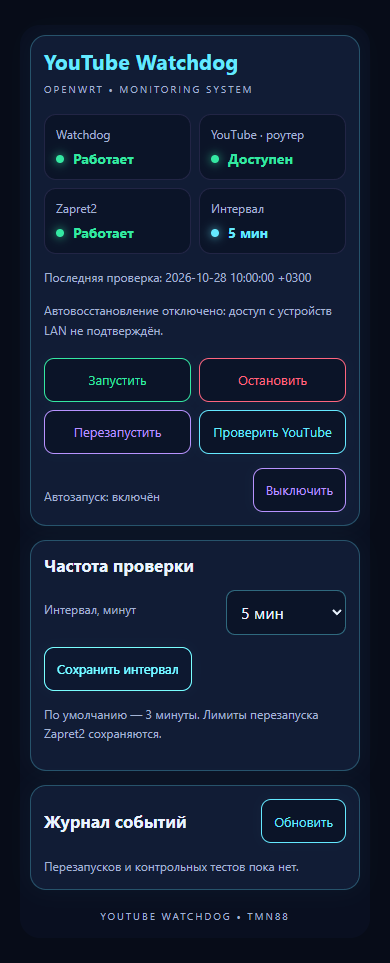
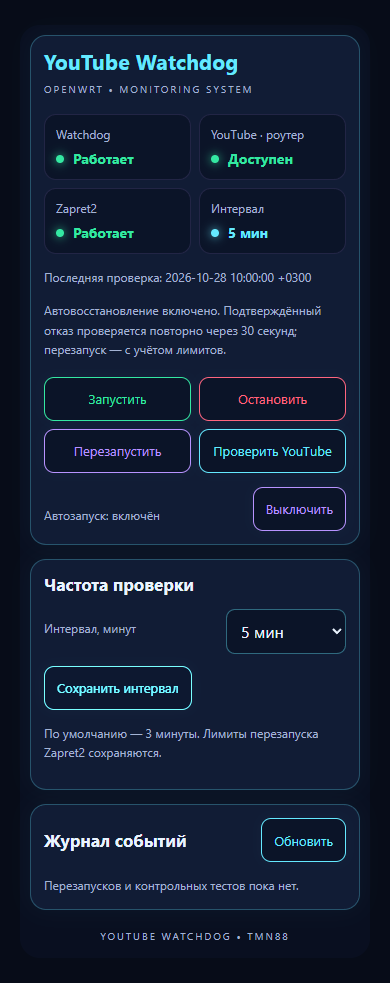
Enable router-local recovery using Site_Checker range/UA/low-speed probe and 30s confirmation (1.3.0)

diff --git a/preview.html b/preview.html
@@ -1,6 +1,6 @@
 <!doctype html><meta charset="utf-8"><meta name="viewport" content="width=device-width, initial-scale=1"><title>YouTube Watchdog — демонстрационные данные</title><body style="background:#070c18;margin:0;padding:20px"><script>
 window.writeAllowed=true;window.calls=[];window.polls=[];window.failInterval=false;
-var state={running:true,enabled:true,zapret_running:true,youtube:'HEALTHY',youtube_scope:'router',client_youtube:'UNKNOWN',local_probe:'HEALTHY',reason:'router_local_only',interval:180,checked_at:'2026-10-28 10:00:00 +0300'};
+var state={running:true,enabled:true,zapret_running:true,youtube:'HEALTHY',youtube_scope:'router',client_youtube:'UNKNOWN',local_probe:'HEALTHY',recovery_enabled:true,reason:'router_https_reachable',interval:180,checked_at:'2026-10-28 10:00:00 +0300'};
 var entries={events:[]};
 var E=function(tag,attrs,children){var e=document.createElement(tag);Object.keys(attrs||{}).forEach(function(k){e.setAttribute(k,attrs[k])});if(children!=null)(Array.isArray(children)?children:[children]).forEach(function(c){e.appendChild(c instanceof Node?c:document.createTextNode(String(c)))});return e};
 var L={hasViewPermission:function(){return window.writeAllowed}},ui={},poll={add:function(f){window.polls.push(f)}},view={extend:function(v){return v}},rpc={declare:function(o){return function(minutes){
@@ -110,12 +110,13 @@ return view.extend({
                 tile('Интервал', (s.interval || 180) % 60 ? String(s.interval) + ' сек' : String((s.interval || 180) / 60) + ' мин', 'cyan')
             ]));
             stateCard.appendChild(E('div', { 'class': 'youtube-watchdog-meta' }, 'Последняя проверка: ' + (s.checked_at || '—') + (s.checking ? ' • Проверка выполняется…' : '')));
-            var notice = s.reason === 'router_local_only'
-                ? 'Автовосстановление отключено: доступ с устройств LAN не подтверждён.'
-                : 'Проверяется доступность HTTPS с диагностического клиента. Воспроизведение видео не гарантируется.';
+            var notice = s.recovery_enabled
+                ? 'Автовосстановление включено. Подтверждённый отказ проверяется повторно через 30 секунд; перезапуск — с учётом лимитов.'
+                : 'Автовосстановление отключено.';
             if (s.reason === 'stale') notice = 'Данные устарели. Дождитесь новой проверки.';
             if (s.reason === 'client_not_configured' || s.reason === 'ssh_missing' || s.reason === 'invalid_client_user') notice = 'Диагностический клиент не настроен. Автоперезапуск запрещён.';
             if (s.reason === 'client_probe_unknown') notice = 'Нет достоверного ответа от диагностического клиента. Автоперезапуск запрещён.';
+            if (s.reason === 'router_probe_unknown') notice = 'Результат проверки неопределённый. Перезапуск не выполняется.';
             if (s.reason === 'client_general_network_or_dns' || s.reason === 'router_network_or_dns') notice = 'Ошибка сети или DNS. Автоперезапуск запрещён.';
             if (s.reason === 'configuration_changed' || s.reason === 'not_checked') notice = 'Ожидается достоверная проверка. Автоперезапуск пока запрещён.';
             stateCard.appendChild(E('div', { 'class': 'youtube-watchdog-meta' }, notice));
@@ -177,7 +178,7 @@ return view.extend({
                 var e;
                 try { e = JSON.parse(item.record); } catch (ignore) { return; }
                 var restart = e.type === 'restart', restored = e.status === 'restored';
-                var text = restart ? 'Перезапуск Zapret2 • подтверждён отказ YouTube • ' + (e.status === 'success' ? 'команда выполнена' : 'ошибка команды')
+                var text = restart ? 'Перезапуск Zapret2 • подтверждён отказ YouTube' + (e.reason === 'confirmed_router_failure' ? ' с роутера' : '') + ' • ' + (e.status === 'success' ? 'команда выполнена' : 'ошибка команды')
                     : restored ? 'YouTube восстановлен' : e.status === 'not_restored' ? 'YouTube не восстановлен' : 'Результат неизвестен';
                 var color = restart || e.status === 'unknown' ? 'warn' : restored ? 'ok' : 'bad';
                 events.appendChild(E('div', { 'class': 'youtube-watchdog-event' }, [

diff --git a/files/overview.js b/files/overview.js
@@ -95,12 +95,13 @@ return view.extend({
                 tile('Интервал', (s.interval || 180) % 60 ? String(s.interval) + ' сек' : String((s.interval || 180) / 60) + ' мин', 'cyan')
             ]));
             stateCard.appendChild(E('div', { 'class': 'youtube-watchdog-meta' }, 'Последняя проверка: ' + (s.checked_at || '—') + (s.checking ? ' • Проверка выполняется…' : '')));
-            var notice = s.reason === 'router_local_only'
-                ? 'Автовосстановление отключено: доступ с устройств LAN не подтверждён.'
-                : 'Проверяется доступность HTTPS с диагностического клиента. Воспроизведение видео не гарантируется.';
+            var notice = s.recovery_enabled
+                ? 'Автовосстановление включено. Подтверждённый отказ проверяется повторно через 30 секунд; перезапуск — с учётом лимитов.'
+                : 'Автовосстановление отключено.';
             if (s.reason === 'stale') notice = 'Данные устарели. Дождитесь новой проверки.';
             if (s.reason === 'client_not_configured' || s.reason === 'ssh_missing' || s.reason === 'invalid_client_user') notice = 'Диагностический клиент не настроен. Автоперезапуск запрещён.';
             if (s.reason === 'client_probe_unknown') notice = 'Нет достоверного ответа от диагностического клиента. Автоперезапуск запрещён.';
+            if (s.reason === 'router_probe_unknown') notice = 'Результат проверки неопределённый. Перезапуск не выполняется.';
             if (s.reason === 'client_general_network_or_dns' || s.reason === 'router_network_or_dns') notice = 'Ошибка сети или DNS. Автоперезапуск запрещён.';
             if (s.reason === 'configuration_changed' || s.reason === 'not_checked') notice = 'Ожидается достоверная проверка. Автоперезапуск пока запрещён.';
             stateCard.appendChild(E('div', { 'class': 'youtube-watchdog-meta' }, notice));
@@ -162,7 +163,7 @@ return view.extend({
                 var e;
                 try { e = JSON.parse(item.record); } catch (ignore) { return; }
                 var restart = e.type === 'restart', restored = e.status === 'restored';
-                var text = restart ? 'Перезапуск Zapret2 • подтверждён отказ YouTube • ' + (e.status === 'success' ? 'команда выполнена' : 'ошибка команды')
+                var text = restart ? 'Перезапуск Zapret2 • подтверждён отказ YouTube' + (e.reason === 'confirmed_router_failure' ? ' с роутера' : '') + ' • ' + (e.status === 'success' ? 'команда выполнена' : 'ошибка команды')
                     : restored ? 'YouTube восстановлен' : e.status === 'not_restored' ? 'YouTube не восстановлен' : 'Результат неизвестен';
                 var color = restart || e.status === 'unknown' ? 'warn' : restored ? 'ok' : 'bad';
                 events.appendChild(E('div', { 'class': 'youtube-watchdog-event' }, [

diff --git a/README.md b/README.md
@@ -1,51 +1,43 @@
 # YouTube Watchdog • TMN88
 
-Отдельная служба OpenWrt **24.10.x (opkg)** / **25.12.x (apk)** с русской страницей **LuCI → Службы → YouTube Watchdog**. POSIX shell, BusyBox, procd, UCI, curl; без Python на роутере, Blockcheck2, подбора стратегий и перезагрузок.
+Служба OpenWrt **24.10.x / opkg** и **25.12.x / apk** с русским интерфейсом **LuCI → Службы → YouTube Watchdog**. Проверяет YouTube с роутера и при повторно подтверждённом отказе штатно перезапускает работающий Zapret2.
 
-> По умолчанию установлен **безопасный режим**: главная карточка **«YouTube · роутер»** показывает результат проверки с роутера клиента. Автоматические перезапуски запрещены. Доступ с устройств LAN отдельно не подтверждён; для восстановления нужен диагностический LAN-клиент, настроенный согласно [CLIENT.md](CLIENT.md). Router-local OUTPUT не доказывает работу LAN/FORWARD.
+**Выпуск 1.3.0: автовосстановление по проверке с роутера включено по умолчанию. Отдельный LAN-клиент не нужен.** При обновлении прежний режим `safe` автоматически заменяется на `router`; интервал и остальные настройки сохраняются. Это изменение согласовано с пользователем вместо прежнего режима наблюдения.
 
-## Установка
-
-Одна команда:
+## Установка и обновление
 
 ```sh
 wget -O /tmp/youtube-watchdog-install.sh https://raw.githubusercontent.com/TMN88/youtube-watchdog/main/install.sh && sh /tmp/youtube-watchdog-install.sh
 ```
 
-Выполнять от root на OpenWrt с LuCI. Установщик проверяет версию, определяет apk/opkg, устанавливает только недостающие `curl ca-bundle flock rpcd luci-base` (и `coreutils-timeout`, если нет команды timeout), скачивает комплект **1.2.0** по закреплённому commit, сверяет SHA256SUMS, проверяет shell и JSON, размещает файлы и регистрирует RPC. Затем включает автозапуск и запускает Watchdog. Если LuCI уже открыта, обновите вкладку. Отдельная Custom Commands не требуется.
+Выполнять от root. Установщик определяет opkg/apk, ставит только недостающие `curl ca-bundle flock rpcd luci-base` и при отсутствии timeout — `coreutils-timeout`. Загружает закреплённый commit комплекта 1.3.0, сверяет SHA256SUMS, проверяет shell/JSON, регистрирует RPC, включает автозапуск и запускает Watchdog. Существующий UCI сохраняется, кроме явного перевода прежнего `safe` в `router`. При ошибке применения восстанавливаются старые файлы, конфигурация и прежнее состояние службы. Общие зависимости не удаляются.
 
-При повторной установке существующий `/etc/config/youtube-watchdog` сохраняется целиком. Файлы предыдущей версии сохраняются во временной папке до окончания установки; ошибка применения вызывает откат файлов и прежнего состояния службы. Зависимости не удаляются при откате. SHA256SUMS защищает от неполной/несогласованной загрузки; это не независимая цифровая подпись.
+После обновления перезагрузите страницу LuCI. Интервалы: **1, 3, 5, 7, 10, 15, 20, 30 минут**, по умолчанию 3 минуты. Кнопка «Сохранить интервал» применяет изменение без перезапуска службы; уже выполняющаяся проверка не прерывается. Тот же интервал повторно не записывается на flash. Установщик освобождает блокировку проверки перед запуском procd.
 
-Роутер должен иметь верные дату/время и рабочее хранилище сертификатов. TLS-проверка не отключается ни в одном режиме.
+## Проверка YouTube
 
-### Исправление установщика 1.0.1
+Используется **только способ из [Site_Checker / sitecheck-check-zapret](https://github.com/TMN88/Site_Checker/blob/ed1e31ac4e5e8fa662532b58bf7fb6dbf89375b7/files/sitecheck-check-zapret)**: следование HTTPS-редиректам, диапазон `0–65535`, User-Agent `Mozilla/5.0 (Windows NT 10.0; Win64; x64) curl/8.0`, контроль минимальной скорости 1 байт/с в течение 3 секунд, подключение до 3 секунд и запрос до 5 секунд. Обычного второго способа нет. Адаптация сохраняет проверку TLS/имени узла, IPv4, запрет перехода на HTTP и обход переменных прокси; curlrc не читается.
 
-На сборках OpenWrt без команды `timeout` установщик автоматически добавляет `coreutils-timeout` через штатный opkg/apk. Если BusyBox или другой установленный пакет уже предоставляет команду, дополнительный пакет не требуется. Доступность `timeout` повторно проверяется после установки зависимостей, до размещения и запуска службы. Ошибка установки пакета не отключает ограничения времени и не позволяет продолжить установку. Состав службы и закреплённый комплект файлов 1.0.0 не изменены.
+Каждый цикл отдельно проверяет DNS четырёх доменов, внешний контроль `https://example.com/`, затем `https://www.youtube.com/`, `https://i.ytimg.com/generate_204` и `https://youtubei.googleapis.com/`. Запросы последовательные, без тяжёлых библиотек и параллельного перебора сайтов.
 
-### Исправление установщика 1.0.2
+* Доступен: минимум два ресурса YouTube отвечают по HTTPS.
+* Отказ YouTube: минимум два ресурса имеют транспортную ошибку при исправных DNS и контрольном HTTPS. Ошибки сертификата, 429/5xx и неполный результат дают неопределённость и не разрешают восстановление.
+* HTTP 403/404/405 на проверочных ресурсах подтверждает состоявшийся TLS/HTTP-обмен и не считается обрывом транспорта. Для внешнего контроля 403/404 не считаются успехом.
+* Ошибка DNS или контрольного сайта блокирует перезапуск Zapret2.
 
-Установщик освобождает блокировку проверки перед запуском procd-службы. В версиях до 1.0.2 первый фоновый цикл мог пропускаться, пока установщик ещё держал блокировку, поэтому время первой проверки появлялось только после следующего интервала или ручного `youtube-watchdog check`. Переустановка для уже работающей службы не обязательна: ручная проверка безопасна и не перезапускает Zapret2. Если локальная проверка прошла, `local_probe` показывает HEALTHY, но в безопасном режиме клиентский `youtube` остаётся UNKNOWN.
+Карточка **«YouTube · роутер»** показывает доступность с роутера, а не доказательство воспроизведения видео на каждом телефоне/компьютере. Не гарантируются работа googlevideo CDN, конкретного ролика и совпадение правил OUTPUT с LAN/FORWARD. Автовосстановление намеренно основывается на router-local проверке по текущему требованию пользователя. Поле `client_youtube` остаётся UNKNOWN без отдельного измерения с LAN.
 
-### Настройка частоты и источник статуса — 1.2.0
+## Когда перезапускается Zapret2
 
-В LuCI → Службы → YouTube Watchdog, в карточке **«Частота проверки»**, выберите **1, 3, 5, 7, 10, 15, 20 или 30 минут** и нажмите **«Сохранить интервал»**. По умолчанию — 3 минуты. Настройка сохраняется в собственный UCI-параметр Watchdog и подхватывается работающим демоном без перезапуска: ожидание следующей проверки пересчитывается в течение 5 секунд. Выполняющийся сетевой тест не прерывается. При увеличении интервала ожидание продлевается, при уменьшении уже истёкшего интервала проверка запускается после обработки изменения. Повторное сохранение того же значения не записывает UCI заново. Сервер разрешает только восемь указанных значений и может менять только этот параметр.
+1. Проверка обнаруживает подтверждённый отказ YouTube при рабочем интернете и DNS.
+2. Watchdog ждёт **30 секунд** и повторяет всю проверку тем же способом.
+3. Если отказ повторился, проверяет `/etc/init.d/zapret2 running` и лимиты.
+4. Выполняет `/etc/init.d/zapret2 restart` с таймаутом 40 секунд.
+5. Через **15 секунд** запускает контрольную проверку и пишет результат в журнал.
 
-Изменение интервала не меняет лимиты восстановления Zapret2. Выбор не сбрасывается при автоматическом обновлении страницы. Отдельной строки «Проверка с роутера» больше нет: результат показан в главной карточке с явным источником **«YouTube · роутер»**. В режиме SSH она называется **«YouTube · LAN-клиент»** и использует результат выбранного LAN-устройства. При отсутствии или устаревании измерения показывается «Неизвестно»; ошибки DNS/общей сети имеют собственные подписи. Доступность HTTPS не доказывает воспроизведение видео.
+Намеренно остановленный или отсутствующий Zapret2 не запускается. Минимум **15 минут** между попытками, максимум **3 за скользящий час**; неудачная команда тоже расходует лимит. После попытки включается гистерезис: для повторного разрешения восстановления нужны две последовательные успешные фоновые проверки. До этого мониторинг продолжается без новых перезапусков. Пропущенный из-за занятой блокировки цикл не засчитывается как успешный.
 
-В `status` поле `youtube` содержит отображаемый результат, а `youtube_scope` — `router` или `lan`. Поле `client_youtube` сохраняет отдельную оценку клиентского пути; в безопасном режиме это UNKNOWN. Внутренняя логика восстановления использует только подтверждённую LAN-проверку, а не отображаемый router-local статус.
-
-## Работа
-
-* Первое измерение — при запуске procd, последующие — через выбранный интервал (по умолчанию 180 секунд) **после завершения предыдущего цикла**. Пока DNS/контрольный HTTPS не готовы, восстановление запрещено. Фактическое время между началами проверок включает длительность измерения.
-* Отдельно проверяется DNS четырёх доменов, внешний контроль `https://example.com/` и три ресурса YouTube: `https://www.youtube.com/generate_204`, `https://i.ytimg.com/generate_204`, `https://youtubei.googleapis.com/`.
-* Только IPv4, TCP, HTTPS с проверкой сертификата и имени узла. curl не читает пользовательский curlrc и обходит переменные HTTP-прокси. Подключение — до 4 секунд, запрос — до 8 секунд, DNS — до 6 секунд; запросы последовательные.
-* Для доступности нужны минимум два из трёх ресурсов. HTTP 403/404/405 от YouTube означает завершённый TLS/HTTP-обмен, а не сетевой обрыв; API не требует ключей. Ответы 5xx, 429 и ошибки сертификатов дают неопределённость, а не основание для перезапуска. Для контрольного сайта 403/404 не считаются успехом.
-* «Доступен» означает доступность нескольких HTTPS-ресурсов с указанного источника: роутера или диагностического LAN-клиента. Это **не гарантия воспроизведения**, работы googlevideo CDN, авторизации или каждого устройства LAN.
-* В режиме SSH подтверждённый отказ — минимум две ошибки транспорта YouTube при рабочем контроле и DNS. Через 10 секунд проводится повторная полная проверка. Общесетевой/DNS/TLS-сбой или недостоверный ответ запрещает перезапуск.
-* Перед восстановлением проверяются существование и исполняемость `/etc/init.d/zapret2` и успешное `running`. Только штатная команда `restart`, ограниченная 40 секундами. Остановленный/отсутствующий Zapret2 не запускается.
-* Попытки восстановления: минимум 900 секунд между ними, максимум три за скользящие 3600 секунд. Учёт — монотонное время `/proc/uptime`; неуспешная команда тоже расходует лимит.
-* После попытки — пауза 15 секунд и контрольная проверка. Гистерезис: новые попытки разрешаются только после **двух последовательных успешных фоновых проверок**. Если восстановления нет, служба продолжает мониторинг без постоянных рестартов. При достижении лимита мониторинг также продолжается.
-* Runtime хранится в `/tmp`, события — в кольцевом системном журнале. Перезапуск Watchdog сохраняет лимиты и гистерезис; перезагрузка роутера очищает RAM и лимиты. Kernel flock защищает фоновые процессы и проверки от параллельного выполнения. Конфигурация и код Zapret2, firewall, маршруты, DNS и другие обходы не изменяются.
+Служба не меняет стратегии Zapret2, firewall, маршруты, DNS и другие обходы. Не запускает Blockcheck2 и не перезагружает роутер. Остановка Watchdog не останавливает Zapret2. Синхронизация — kernel flock; runtime, лимиты и уведомления — в `/tmp`, события — в кольцевом logread. Монотонное время защищает лимиты от перевода часов. Перезагрузка роутера очищает RAM-состояние.
 
 ## Команды
 
@@ -55,29 +47,27 @@ wget -O /tmp/youtube-watchdog-install.sh https://raw.githubusercontent.com/TMN88
 /etc/init.d/youtube-watchdog restart
 /etc/init.d/youtube-watchdog enable
 /etc/init.d/youtube-watchdog disable
-
-youtube-watchdog check    # однократная проверка, НИКОГДА не вызывает restart
-youtube-watchdog status   # JSON: служба, YouTube, Zapret2, автозапуск, время, причина
-youtube-watchdog logs     # JSON: последние 20 событий, новые сверху
+youtube-watchdog check   # один тест, НИКОГДА не вызывает restart
+youtube-watchdog status
+youtube-watchdog logs
 logread -e youtube-watchdog-event
 ```
 
-`check` может занять до двух минут в режиме SSH. При занятой блокировке CLI возвращает ошибку. Кнопка LuCI ставит такую же проверку в фон, а статус обновляется каждые 5 секунд. При остановке Watchdog Zapret2 не останавливается. «Остановить» и «Выключить автозапуск» — независимые действия.
+`status` возвращает отображаемый `youtube`, источник `youtube_scope`, локальный результат `local_probe`, состояние `recovery_enabled`, время и интервал. Во время `check` блокировка ещё может быть занята в момент вывода ответа; отдельный последующий `status` отражает текущее состояние. Основной цикл запускается сразу при старте и затем ждёт выбранный интервал после окончания проверки. Время запросов прибавляется к периоду между началами циклов.
 
-Компактный журнал содержит только два типа событий: попытка штатного перезапуска с причиной и результатом команды; результат контрольного теста после неё (восстановлен / не восстановлен / неизвестно). Обычные успешные проверки и технический вывод curl не попадают в журнал. После очистки logread или перезагрузки история может быть пустой. Операции установки выводятся только в терминал.
+LuCI использует те же RPC/CLI-функции, обновляет состояние динамически и запрещает двойные действия. Журнал содержит только попытки перезапуска Zapret2 с причиной/статусом и результат контрольной проверки: восстановлен / не восстановлен / неизвестно. Последние 20 событий, новые сверху; обычные успешные проверки, сырой curl и чужие службы не выводятся. После очистки logread история может быть пустой.
 
 ## UCI
 
 ```uci
 config watchdog 'main'
-    option mode 'safe'
+    option mode 'router'
     option interval '180'
-    option client_host ''
-    option client_user 'watchdog'
-    option client_confirmed '0'
 ```
 
-В UCI интервал хранится в секундах. Для сохранения совместимости с прежними пользовательскими конфигурациями демон принимает 60–86400 секунд; некорректное значение заменяется на 180. LuCI и RPC разрешают только восемь перечисленных значений. Старое нестандартное значение сохраняется при обновлении и отображается в списке как текущее до выбора нового. При ручном редактировании UCI можно выполнить `/etc/init.d/youtube-watchdog restart`, чтобы применить изменение сразу. Устаревший результат отображается как UNKNOWN. Причины представлены стабильными кодами в `status`.
+LuCI/RPC разрешают только восемь указанных интервалов. Для совместимости демон принимает старые пользовательские значения от 60 до 86400 секунд; нестандартное старое значение сохраняется до выбора нового. RPC записи ограничен единственным параметром интервала; нет доступа к произвольным файлам, командам или настройкам других служб.
+
+Режим `safe` оставлен как явный ручной отказ от восстановления после установки: он только наблюдает. Повторная установка переводит прежний `safe` в `router`, как описано выше. Существующий `ssh` сохранён как необязательный режим для заранее настроенного LAN-клиента ([CLIENT.md](CLIENT.md)); обычной установке он не нужен.
 
 ## Удаление
 
@@ -85,24 +75,14 @@ config watchdog 'main'
 sh /usr/libexec/youtube-watchdog-uninstall
 ```
 
-Либо скачать опубликованный скрипт:
+Удаляет собственные файлы и UCI; Zapret2 не удаляет и не останавливает. Общие зависимости и вручную размещённые ключи остаются. Альтернатива: скачать `uninstall.sh` из этого репозитория и выполнить от root.
 
-```sh
-wget -O /tmp/youtube-watchdog-uninstall.sh https://raw.githubusercontent.com/TMN88/youtube-watchdog/main/uninstall.sh && sh /tmp/youtube-watchdog-uninstall.sh
-```
+## Интерфейс и проверка
 
-Удаляются только собственные файлы, UCI и runtime-состояние. Zapret2 не удаляется и не останавливается. Общие зависимости остаются. Вручную размещённые SSH-ключи и known_hosts в `/etc/youtube-watchdog` сохраняются. Старые записи кольцевого logread исчезнут естественным образом.
+![Демонстрационные данные реального view](preview-desktop.png)
 
-## Интерфейс
+[Мобильный вид](preview-mobile.png) · [Предпросмотр с имитацией RPC](preview.html) · [Подробности проверок](VALIDATION.md).
 
-Реальный JavaScript view LuCI, собственный RPC объект `youtube-watchdog`, ACL только на девять фиксированных методов. Нет доступа к произвольным файлам, командам или произвольной записи UCI через браузер; метод настройки может менять только интервал Watchdog и проверяет тип и диапазон значения. Непривилегированным сессиям без write-доступа управление недоступно. Все данные журнала выводятся текстом, без вставки HTML. Стили ограничены префиксом `youtube-watchdog-`, системные шрифты, без внешних ресурсов.
+Адресные локальные тесты проверяют способ запроса, повтор через 30 секунд, разрешённый перезапуск, запреты DNS/общего сбоя/неопределённости/остановленного Zapret2, лимиты, UCI-обновление и откат. Они не создают сбои настоящего роутера. Новый автоматический перезапуск на оборудовании ещё не испытан. На cudy_wr3000s_7 ранее подтверждены установка, управление службой и фоновые локальные проверки.
 
-![Демонстрация интерфейса; данные подставные](preview-desktop.png)
-
-[Мобильный вид](preview-mobile.png) · [автономный просмотр с подставными данными](preview.html). Предпросмотр использует тот же `files/overview.js` и имитирует RPC; он не подключается к роутеру.
-
-## Проверки и границы подтверждения
-
-См. [VALIDATION.md](VALIDATION.md). Локальные тесты с mock DNS/HTTPS, пакетным менеджером и службой не являются испытанием настоящих пакетов opkg/apk, procd/rpcd или совместимости с каждой темой LuCI. На действующих роутерах сбои не создавались. Репозиторий `TMN88/zapret2-youtube-autotune` не изменяется.
-
-Референс структуры установщика: [TMN88/podkop-vpn-failover-owrt](https://github.com/TMN88/podkop-vpn-failover-owrt). Watchdog не зависит от Podkop и не устанавливает его.
+Источник способа проверки: [TMN88/Site_Checker](https://github.com/TMN88/Site_Checker), commit `ed1e31ac4e5e8fa662532b58bf7fb6dbf89375b7`; исходная адаптация Site_Checker ссылается на [Zapret Manager](https://github.com/StressOzz/Zapret-Manager/blob/721c5c5367cc277007e7f60bb2f13b475e68d295/ZapretManager_LuCI.sh). Эти проекты и `TMN88/zapret2-youtube-autotune` не изменяются и не устанавливаются Watchdog.

diff --git a/VALIDATION.md b/VALIDATION.md
@@ -42,6 +42,12 @@ sha256sum -c SHA256SUMS
 
 Настройка интервала теперь содержит ровно восемь вариантов 1, 3, 5, 7, 10, 15, 20, 30 минут. 20 RPC-сценариев проверяют все варианты, запрет других значений и типов, отсутствие повторной записи и ошибку сохранения. Проверена поддержка 60 секунд в демоне. Chromium-проверка подтверждает состав списка, сохранение выбора при polling, отсутствие удалённой строки, подписи источника для router/LAN и мобильный вид. Новая версия на роутере пока не проверялась.
 
+## Активное восстановление с роутера 1.3.0
+
+По прямому требованию пользователя прежний основной режим наблюдения заменён на router: локальный подтверждённый отказ разрешает штатный restart работающего Zapret2. Используется только range/UA/low-speed способ из Site_Checker (files/sitecheck-check-zapret, commit ed1e31ac4e5e8fa662532b58bf7fb6dbf89375b7); обычного второго запроса нет. TLS, IPv4, контрольный HTTPS, DNS и ресурсный кворум сохранены. Подтверждающий повтор теперь через 30 секунд, контроль после команды — через 15 секунд.
+
+49 локальных проверок службы (51 Linux) включают реальную ветку решения router с подставными сетевыми результатами: отказ/отказ/восстановлен, восстановление на подтверждении, ошибки DNS/интернета/неопределённость, намеренно остановленный Zapret2. Проверяется точный набор range/UA/low-speed/таймаутов, включая успешный ответ HTTP 206. Дополнительно прошли адресные сценарии обновления safe → router с сохранением интервала и отката конфигурации при ошибке. Интерфейс проверен с recovery_enabled=true. На настоящем роутере сбои не создавались; автоматический restart новой версии аппаратно ещё не подтверждён.
+
 ## Не подтверждено аппаратным испытанием
 
 Настоящие установка/обновление пакетов opkg и apk, загрузка через procd после перезагрузки, регистрация RPC в штатном rpcd, разрешения реальной сессии LuCI, сочетания тем Argon/Footstrap/Aurora и реальный клиентский путь с Zapret2. В этих пунктах реализованы стандартные файлы и интерфейсы OpenWrt, но локальные моки не доказывают совместимость оборудования.

diff --git a/CLIENT.md b/CLIENT.md
@@ -1,6 +1,8 @@
 # Отдельный диагностический LAN-клиент
 
-Без него используйте `mode=safe`: карточка «YouTube · роутер» показывает локальное измерение, поле client_youtube остаётся UNKNOWN, восстановление запрещено. Указание `mode=ssh` без `client_confirmed=1`, валидного частного IPv4, ключа и known_hosts также не разрешает восстановление.
+Начиная с 1.3.0 это необязательный расширенный режим. Основной режим `router` проверяет YouTube с роутера и самостоятельно разрешает восстановление по этой проверке. Для обычной установки отдельное устройство не требуется. Ниже описан только добровольно выбранный режим `ssh`.
+
+Если отдельного LAN-устройства нет, используйте основной `mode=router`: он проверяет YouTube и разрешает восстановление с роутера. Режим `ssh` без `client_confirmed=1`, валидного частного IPv4, ключа и known_hosts не разрешает восстановление; его следует выбирать только после настройки отдельного клиента.
 
 Подходящий клиент — отдельный Linux/OpenWrt-хост в нужном LAN/VLAN, который действительно ходит через этот роутер. **Это не сам роутер, не VPS, не Tailscale-адрес и не устройство с собственным VPN/прокси/другим шлюзом.** Клиент должен попадать в те же правила Zapret2, DNS и маршрутизации, что проверяемая группа устройств. Если разные VLAN/исключения имеют разные правила, один клиент характеризует только свою группу.
 
